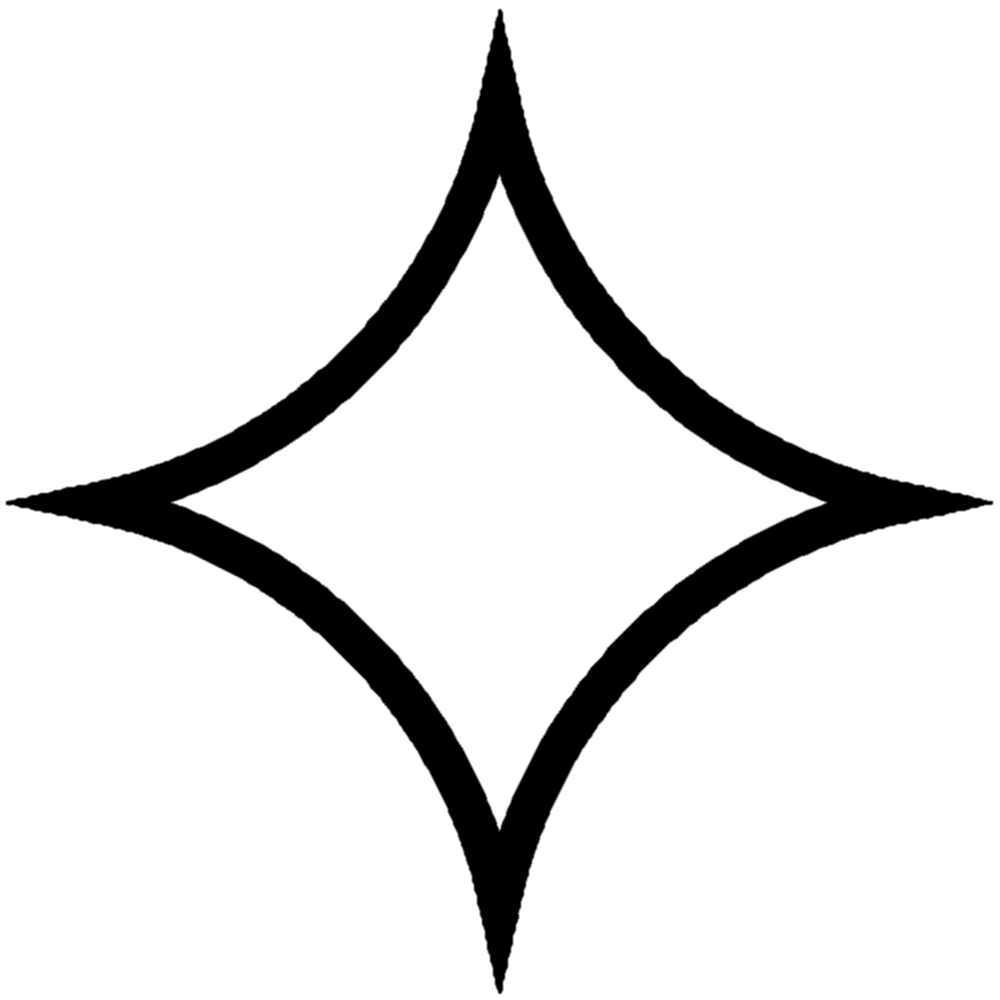
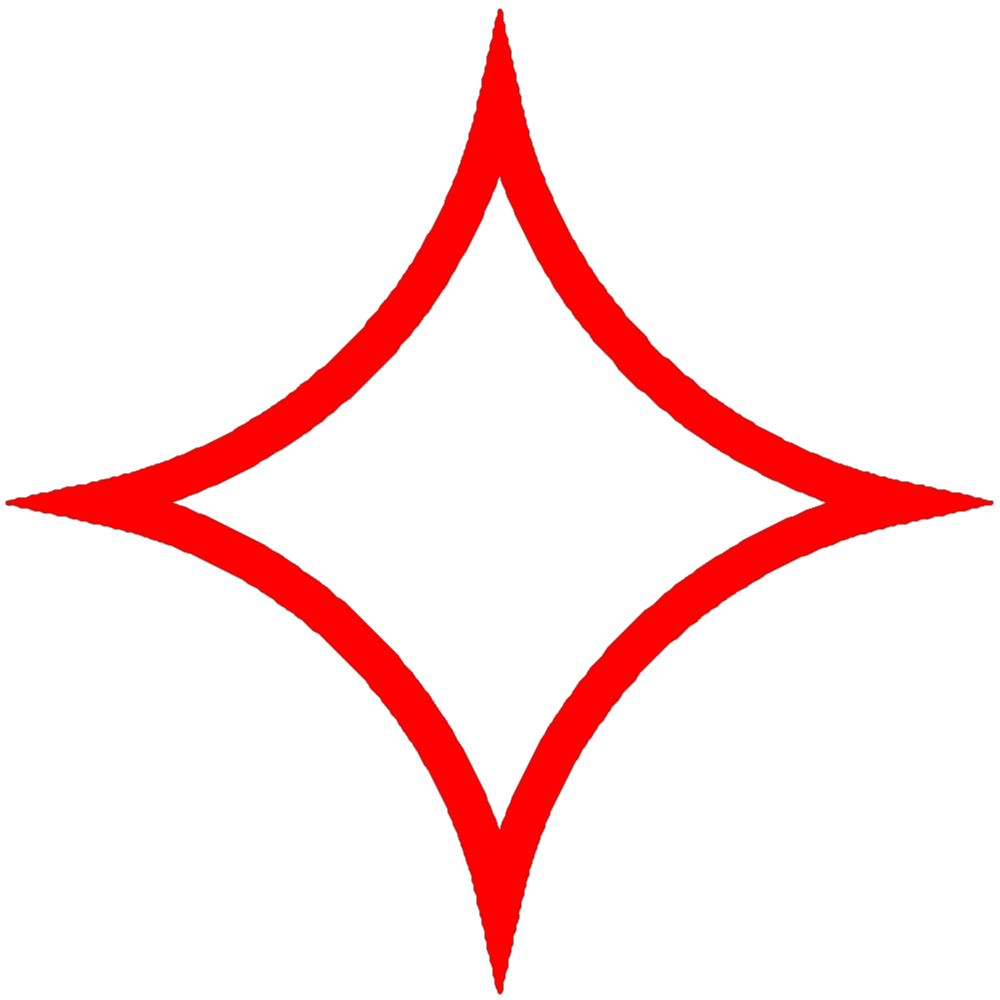
F2

Changed region(s): [[0.0, 0.0, 0.992, 0.992]]

diff --git a/docs/index.html b/docs/index.html
@@ -751,6 +751,7 @@ li {
   width: 80px;
   height: 80px;
   z-index: 2;
+  animation: color 1s ease infinite;
 }
 .postbutton {
   margin: 2px;
@@ -921,7 +922,12 @@ li {
 @keyframes bounce {
   0% { transform: translateY(0px);}
   50% { transform: translateY(-10px); }
-  100% { transform: translateY(0); }
+  100% { transform: translateY(0px); }
+}
+
+@keyframes color {
+  0% { filter: hue-rotate(0deg);}
+  100% { filter: hue-rotate(360deg);}
 }
 
 @keyframes floatup {
